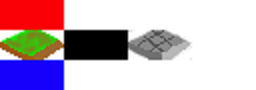
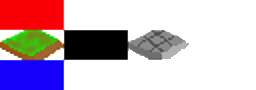
Tiles are transparent again; spritesheet rects are stored instead of many textures

diff --git a/BewareTheDemonLib/src/resources.cpp b/BewareTheDemonLib/src/resources.cpp
@@ -16,7 +16,8 @@ void Resource::registerRenderer(SDL_Renderer* renderer){
 }
 
 Resource::Resource(){
-	tileList = NULL;
+	tileClipList = NULL;
+	tileSheet = NULL;
 	musicList = new std::map<std::string, Mix_Music*>();
 	soundList = new std::map<std::string, Mix_Chunk*>();
 	imageList = new std::map<std::string, SDL_Texture*>();
@@ -43,47 +44,46 @@ Resource::~Resource(){
 }
 
 void Resource::loadAllTiles(){
-	if( tileList != NULL ){
+	if( tileSheet != NULL ){
 		std::cout << "Tiles are already loaded!" << std::endl;
 		return;
 	}
 
-	tileList = new SDL_Texture*[(int)TILE_TYPE_COUNT];	
-
-	SDL_Surface* tileSet = IMG_Load( TILE_SPRITE_MAP.c_str() );
-
-	SDL_Rect thisTileRect;
-	thisTileRect.w = TILE_WIDTH;
-	thisTileRect.h = TILE_HEIGHT;
-
-
-	SDL_Surface* tempSurface = SDL_CreateRGBSurface( 0,	TILE_WIDTH,	TILE_HEIGHT+10, 32, 0, 0, 0, 0);
-
+	tileClipList = new SDL_Rect*[(int)TILE_TYPE_COUNT];	
+	
+	SDL_Surface* tileSheet_surface = IMG_Load( TILE_SPRITE_MAP.c_str() );
+	tileSheet = SDL_CreateTextureFromSurface(renderer, tileSheet_surface);
+	SDL_FreeSurface(tileSheet_surface);
+	
 	//Initialize the rectangles that are blitting the
 	//	loaded image
 	for( int i = 0; i < TILE_TILEMAP_ROWS; i++){
 		for( int j = 0; j < TILE_TILEMAP_COLS; j++ ){
 			int pos = i * TILE_TILEMAP_COLS + j;
-			
-			thisTileRect.x = j*TILE_WIDTH;
-			thisTileRect.y = i*TILE_HEIGHT;
-			SDL_BlitSurface(tileSet, &thisTileRect, tempSurface, NULL);
-			tileList[pos] = SDL_CreateTextureFromSurface(renderer, tempSurface);
+
+			SDL_Rect* thisTileRect = new SDL_Rect();
+			thisTileRect->w = TILE_WIDTH;
+			thisTileRect->h = TILE_HEIGHT;
+			thisTileRect->x = j*TILE_WIDTH;
+			thisTileRect->y = i*TILE_HEIGHT;
+			tileClipList[pos] = thisTileRect;
 		}
 	}
-	SDL_FreeSurface( tileSet );
-	SDL_FreeSurface( tempSurface );
 }
 
 void Resource::freeTiles(){
-	if( tileList != NULL ){
+	if( tileClipList != NULL ){
 		for( int i = 0; i < (int)TILE_TYPE_COUNT-1; i++ ){  //NULL tile is not created as a surface
-			if( tileList[i] != NULL ){
-				SDL_DestroyTexture( tileList[i] );
+			if( tileClipList[i] != NULL ){
+				delete tileClipList[i];
 			}
 		}
-		delete [] tileList;
-		tileList = NULL;
+		delete [] tileClipList;
+		tileClipList = NULL;
+	}
+	if( tileSheet != NULL ){
+		SDL_DestroyTexture( tileSheet );
+		tileSheet = NULL;
 	}
 }
 

diff --git a/BewareTheDemonLib/src/gameview.cpp b/BewareTheDemonLib/src/gameview.cpp
@@ -7,7 +7,13 @@ static SDL_Texture* plantGuy;
 GameView::GameView(GameModel* gm){
 	model = gm;
 
-	SDL_CreateWindowAndRenderer(SCREEN_WIDTH, SCREEN_HEIGHT, 0, &gameWindow, &gameRenderer);
+	SDL_CreateWindowAndRenderer(
+		SCREEN_WIDTH, 
+		SCREEN_HEIGHT, 
+		0, 
+		&gameWindow, 
+		&gameRenderer);
+	SDL_SetWindowTitle(gameWindow, "Beware The Demon");
 	Resource::registerRenderer(gameRenderer);
 	state = GAME_BEGIN;
 	SDL_SetRenderDrawColor(gameRenderer, 0, 0, 0, 255);
@@ -78,8 +84,8 @@ void GameView::stateChange(GameState newState){
 
 			//Load tiles and player
 			r->loadAllTiles();
-			
-			tileList = r->getTiles();
+			tileSpriteSheet = r->getTiles();
+			tileClipList = r->getTileClips();
 			break;
 
 		default:
@@ -102,7 +108,7 @@ void GameView::stateChange(GameState newState){
 
 void GameView::update(){
 	 //Fill the screen blue
- 	SDL_SetRenderDrawColor(gameRenderer, 0x00, 0x00, 0xFF, 0xFF);
+ 	SDL_SetRenderDrawColor(gameRenderer, 0x00, 0x00, 0xFF, 0x00);
 	SDL_RenderClear(gameRenderer);
 
 	switch(state){
@@ -200,11 +206,11 @@ void GameView::updateDungeon(){
 			tempPoint->x = x;
 			tempPoint->y = y;
 
-
+			
 			if( pos >= map->getMapSize() || pos < 0 ){ break; }
 			TileType t = mapArray[pos]->getType();
 			if( t == TILE_NULL ){ continue; }
-			SDL_RenderCopy( gameRenderer, tileList[t], NULL, tempPoint); 
+			SDL_RenderCopy( gameRenderer, tileSpriteSheet, tileClipList[t], tempPoint); 
 			std::list<ImageObject*>* myList = mapArray[pos]->images;
 			if(myList != NULL && !myList->empty()){
 				std::list<ImageObject*>::reverse_iterator rit;
@@ -229,7 +235,7 @@ void GameView::updateDungeon(){
 			if( pos >= map->getMapSize() || pos < 0 ) break;
 			TileType t = mapArray[pos]->getType();
 			if( t==TILE_NULL ){ continue; }
-			SDL_RenderCopy( gameRenderer, tileList[t], NULL, tempPoint); 
+			SDL_RenderCopy( gameRenderer, tileSpriteSheet, tileClipList[t], tempPoint); 
 			std::list<ImageObject*>* myList = mapArray[pos]->images;
 			if(myList != NULL && !myList->empty()){
 				std::list<ImageObject*>::reverse_iterator rit;

diff --git a/BewareTheDemonLib/headers/resources.h b/BewareTheDemonLib/headers/resources.h
@@ -14,8 +14,9 @@ public:
 	static Resource* getInstance();
 	static void registerRenderer(SDL_Renderer* renderer);
 
-	SDL_Texture** getTiles(){return tileList;}
-	
+	SDL_Texture* getTiles(){return tileSheet;}
+	SDL_Rect** getTileClips(){return tileClipList;}
+
 	Mix_Music* loadMusic( std::string musicName );
 	Mix_Chunk* loadSound( std::string soundName );
 	TTF_TEXT* loadText( std::string fontName, std::string text, int fontSize, SDL_Color color, int textX, int textY );
@@ -41,8 +42,8 @@ private:
 	std::map<std::string, Mix_Music*>* musicList;
 	std::map<std::string, Mix_Chunk*>* soundList;
 	std::map<std::string, SDL_Texture*>* imageList;
-	
-	SDL_Texture** tileList;
+	SDL_Texture* tileSheet;
+	SDL_Rect** tileClipList;
 
 	static Resource* instance;
 	static SDL_Renderer* renderer;

diff --git a/BewareTheDemonLib/src/dungeonmodel.cpp b/BewareTheDemonLib/src/dungeonmodel.cpp
@@ -47,6 +47,7 @@ void DungeonModel::loadMap(){
 }
 
 void DungeonModel::createNewMap(){
+	//TODO: Rewrite dungeon creation algorithim as a component of the project
 	//createNewDungeon = SDL_CreateThread( runCreateMapThread, (void*)NULL );
 }
 

diff --git a/BewareTheDemonLib/headers/gameview.h b/BewareTheDemonLib/headers/gameview.h
@@ -24,7 +24,8 @@ private:
 
 	GameModel* model;
 	GameState state;
-	SDL_Texture** tileList;
+	SDL_Texture* tileSpriteSheet;
+	SDL_Rect** tileClipList;
 	SDL_Texture* backGround;
 	
 	SDL_Window* gameWindow;

diff --git a/BewareTheDemonLib/src/maploader.cpp b/BewareTheDemonLib/src/maploader.cpp
@@ -25,7 +25,6 @@ void MapLoader::clear(){
 
 }
 
-
 Map* MapLoader::loadMap(std::string fileName){
 	using namespace std;
 	Map* map = NULL;
